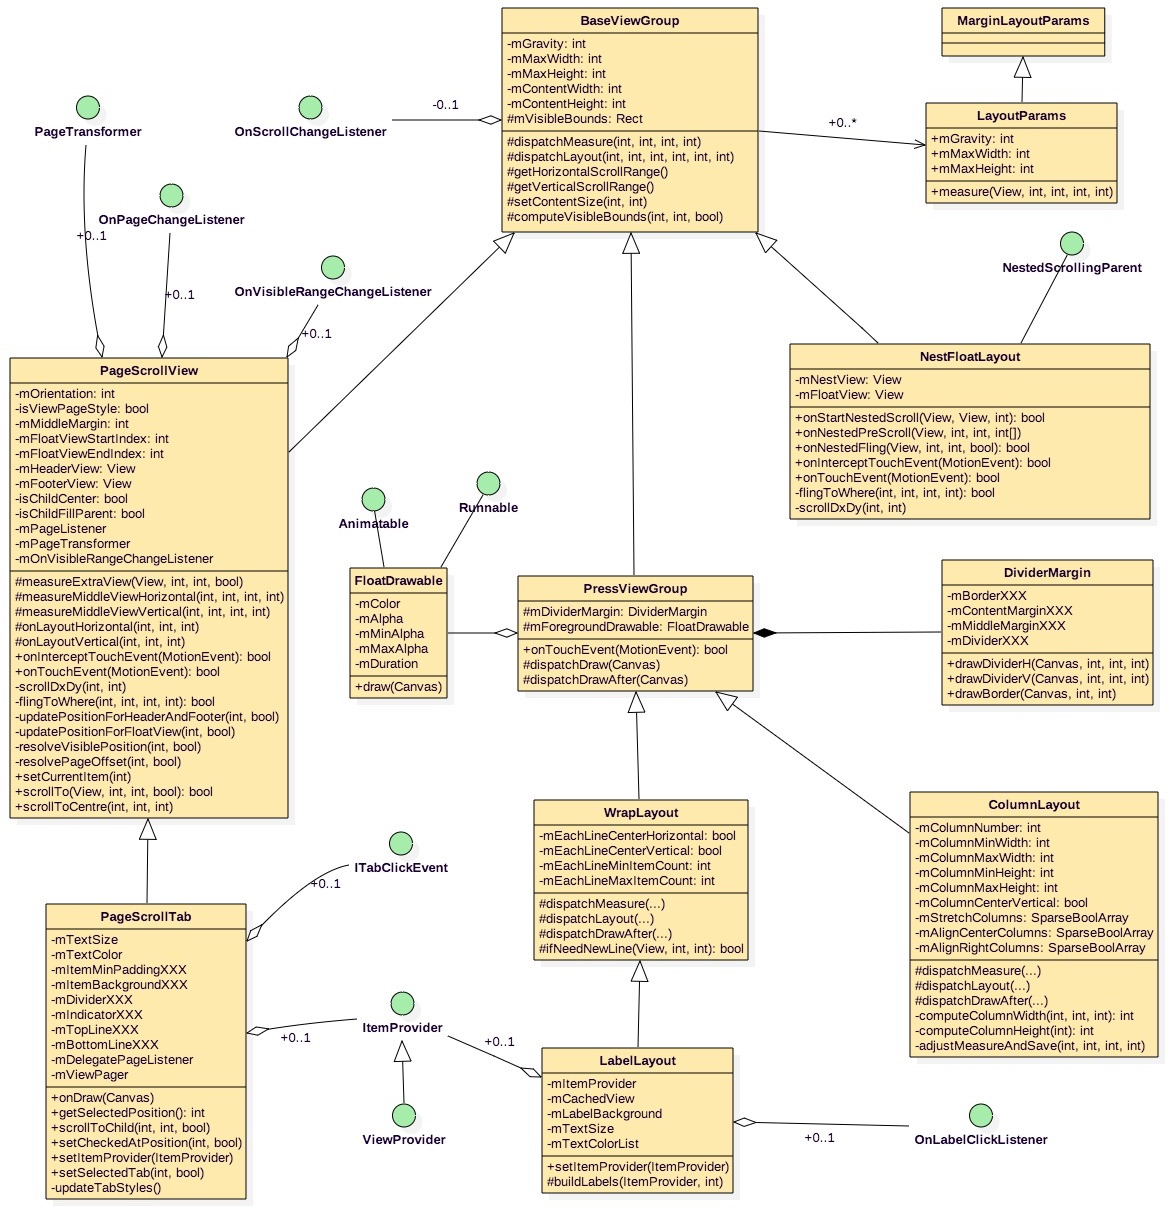
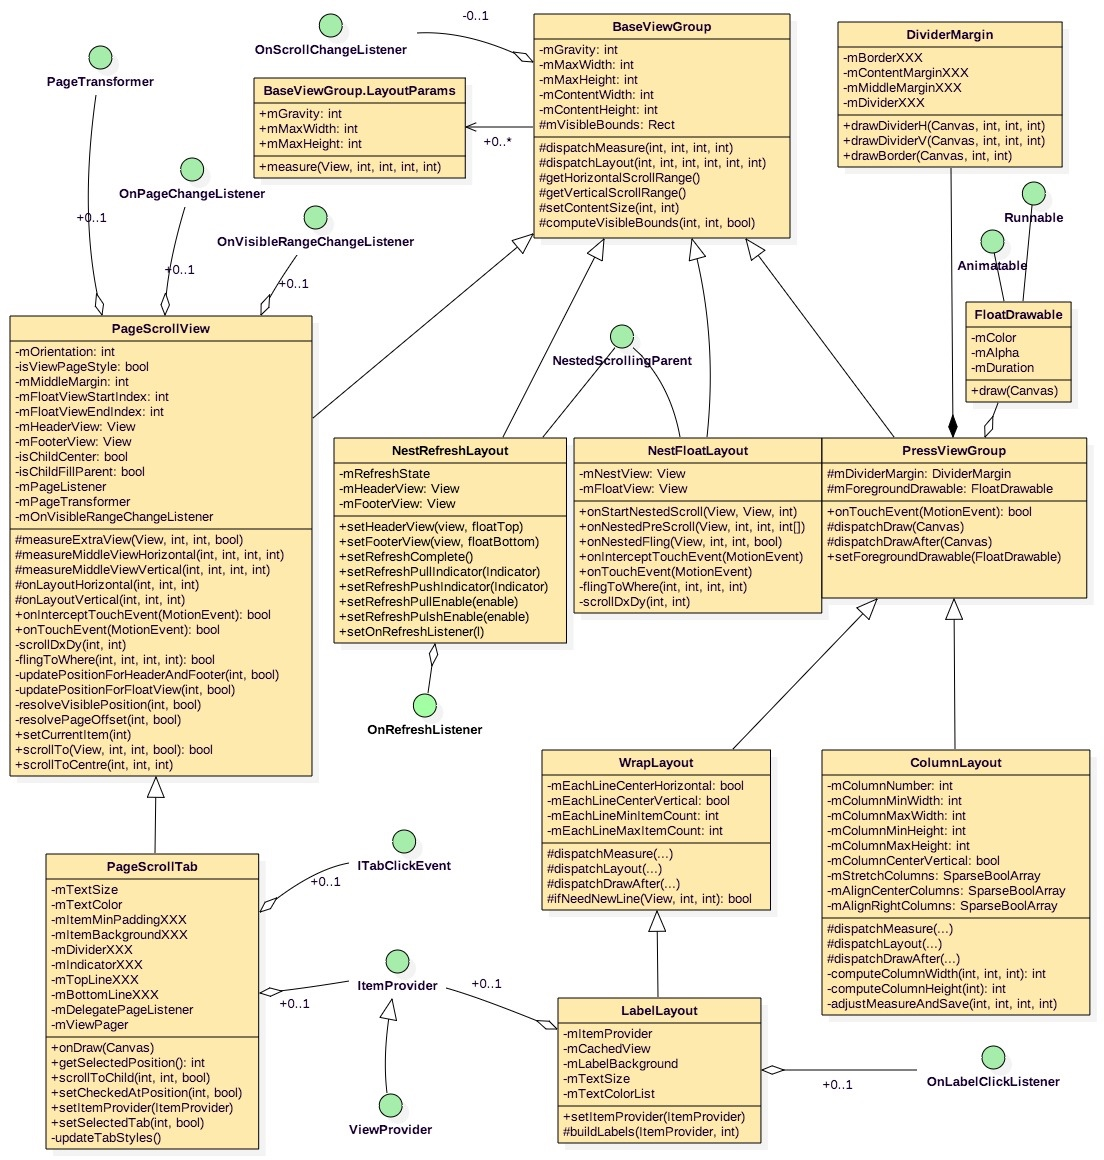
更新readme

diff --git a/README.md b/README.md
@@ -1,72 +1,58 @@
 # WidgetLayout 介绍
-**WidgetLayout**是一组继承于`ViewGroup`的自定义容器集合， 目前实现了以下实用容器:
+**WidgetLayout**是一组继承于`ViewGroup`的自定义容器集合，大部分支持描边和内容分割线，目前实现了以下实用容器:
 
-1. `NestRefreshLayout` 一个精简强大的支持任意类型 View 的下拉刷新 上拉加载更多，同时可添加头部和尾部 且可设置 `Float`模式。
-2. `WrapLayout` 支持水平布局，并自适应换行，可限定每行最少和最多Item 数，行内容可水平和垂直居中。
-3. `LabelLayout` 继承自 `WrapLayout`,以`ItemProvider` 方式提供内容，有简单的回收复用机制，有Item 点击监听。
-4. `ColumnLayout` 以等分列方式布局，每列可设置内容居左，中，右，及铺满，可设置最小最大列宽高限定。
-5. `NestFloatLayout` 支持列表的嵌套滑动和指定子 `View` 悬停，像`NestScrollView` 。
-6. `PageScrollView` 可水平垂直方向布局和滑动吸顶等，无需嵌套; 支持`ScrollView`和`ViewPager`的交互和接口。
-7. `PageScrollTab` 在`PageScrollView`上扩展支持`Tab`场景交互和各种UI 定制。
+1. `ColumnLayout` 以等分列方式布局，每列可设置内容居左，中，右，及铺满，可设置最小最大列宽高限定。
+2. `NestRefreshLayout` 一个精简强大的支持任意类型`View`的下拉刷新，上拉加载更多,可添加头部和尾部且可设置悬停模式。
+3. `NestFloatLayout` 支持列表的嵌套滑动和指定子 `View` 悬停顶部，类似`NestScrollView` 。
+4. `PageScrollView` 可水平垂直方向布局和滑动吸顶等，无需嵌套，支持`ScrollView`和`ViewPager`的交互和接口。
+5. `PageScrollTab` 在`PageScrollView`上扩展支持`Tab`场景交互和各种UI定制。
+6. `WrapLayout` 支持水平布局，并自适应换行，可限定每行最少和最多Item数，行内容可水平和垂直居中。
+7. `LabelLayout` 继承自 `WrapLayout`,以`ItemProvider` 方式提供内容，有简单的回收复用机制，有Item点击监听。
 
-
-
-# 实现背景
-
-* 开发中为了实现特定的组合布局，我们会用功能鲜明的4大常用布局去嵌套实现，增加了严重OverDraw的机率；
-
-* `RelativeLayout` 布局功能强大但是`measure`过程复杂(每次执行onMeasure 所有直接子 View 会有两次measure)
-
-* 面对复杂交互可能需要写一堆与业务无关的晦涩逻辑，工作量比开发业务繁重，比如滑动控件的悬停或联动；
-
-* 在有分割线或是边界线的视觉需求时，很多人常用`View`来实现，即消耗了内存，又影响了测绘时间。
-
-* 常用容器控件还没有对自身做最大宽高限定的，经常见到的等分布局，常用多层支持不同方向`LinearLayout`来实现。
-
-* 希望容器有一个共通的基类，便于日后统一处理一些事情，比如监控性能打点等。
-
-针对以上问题结合常用的使用场景编写了以上的几种容器组件,类结构图如下：
+以下是各容器实现的结构类图， **[直接看示例请点击](#demo演示效果)[`演示效果`](#demo演示效果)**
 
 ![WrapLayout&LabelLayout][classlayer]
 
+# 实现背景及使用场景
 
+**1. 现有系统容器下开发界面经常遇到以下尴尬问题:**
+   * 实现特定的组合布局，我们会用功能鲜明的4大常用布局去嵌套实现，**增加了严重OverDraw的机率**；
+   * `RelativeLayout` 布局功能强大但是`measure`过程复杂(每次执行`onMeasure` **所有直接子`View`会有两次measure**)
+   * 为实现复杂交互工作量比开发业务繁重，比如**滑动控件的悬停或联动**；
+   * **分割线或是边界线**很多人常用`View`来实现，即耗内存，又影响测绘时间。
+   * **等分布局**，使用多层不同方向`LinearLayout`来实现，嵌套太多。
+   * 常用容器控件还没有对自身做最大宽高限定的，也无对子 View 做最大宽高限定。
+   
+**2. 适合的使用场景举例按需要选择，可减少布局嵌套和复杂的交互代码。**
+   + **容器自身或对直接子`View`的最大宽高限定**，容器内容和直接子`View`的`gravity`灵活支持。
+   + 容器需要**描边**或子`View`间画**分割线**的，或有各种间距要求，或按下自带激变层效果可使用继承于`PressViewGroup`的容器，如`WrapLayout,LabelLayout,ColumnLayout`。
+   + 常见的**表格**布局或**动态等分**布局可用`ColumnLayout`，支持每列的`Align`方式（左中右上下）和全铺满。
+   + 标签布局或需自适应换行可选用`WrapLayout`和`LabelLayout`，可设置行最少最多的`View` 个数和行居中，
+   + 列表需要**嵌套滑动**和悬停吸顶可用`NestFloatLayout`，类似NestScrollView 。
+   + `PageScrollView` 可取代`ScrollView&HorizontalScrollView` 少嵌套，可设置任意子`View`滑动悬停在开始和结束位置，可不限定子`View`大小像 `ViewPager` 一样选中居中和滑动的交互。
+   + `WrapLayout,ColumnLayout`是完全可替代支持不同方向的`LinearLayout`并能提供更多的布局约束，和**背景，描边，分割等额外装饰**。
+   + 以上容器都有一个共通的基类，便于统一监控性能打点如`layout`,`measure`过程等。 
 
-# 适合的使用场景举例 按需要选择，减少布局嵌套和额外复杂的交互代码。
+# Demo演示效果
 
- + 任何需要对容器自身或对直接子 View 的最大宽高限定以及支持 `gravity的不同Align`布局，都可适当选择以下容器。
-
- + 任何需要对容器描边和子`View`间画分割线的，需要像ios 按下自带蒙层的效果可使用继承于`PressViewGroup`的容器，像`WrapLayout,LabelLayout,ColumnLayout`。
-
- + `WrapLayout`和`LabelLayout` 适用于以行方式布局子控件，并能自适应大小自动换行，方便设置行最少最多的`View` 个数和行居中，
-
- + `ColumnLayout`是特别适合列布局，等分布局的使用场景，方便调整每列的`Align`方式（左中右）和全铺满，或按child自已的`gravity`在所在列的格子里来布局，
-
- + `NestFloatLayout` 适合嵌套滑动的列表，类似NestScrollView 。
-
- + `PageScrollView` 可替代`ScrollView&HorizontalScrollView` 少嵌套，可设置任意子`View`滑动悬停在开始和结束位置，可不限定子`View`大小像 `ViewPager` 一样选中居中和滑动的交互。
-
- + `WrapLayout,ColumnLayout`是完全可替代支持不同方向的`LinearLayout`并能提供更多的布局约束，和背景，描边，分割等额外装饰。
-
-
-
-# Demo 示例效果
-
-Demo 入口 和 `NestFloatLayout`的演示效果。
-
-![NestFloatLayout][entry]
-![NestFloatLayout][nestlist]
-
-<br/>
 `WrapLayout`和`LabelLayout` `ColumnLayout`的演示效果。的演示效果。
 
 ![WrapLayout&LabelLayout][wraplabel]
 ![ColumnLayout][column]
 
 <br/>
+
 `PageScrollView`和`PageScrollTab`的使用示例。
 
 ![无需嵌套LinearLayout > scrollview.gif][scrollview]
 ![ViewPager 模式 > viewpager.gif][viewpager]
+
+<br/>
+
+Demo 入口 和 `NestFloatLayout`的演示效果。
+
+![NestFloatLayout][entry]
+![NestFloatLayout][nestlist]
 
 
 # 如何使用：XML 属性和 API 简介
@@ -165,73 +151,7 @@ Demo 入口 和 `NestFloatLayout`的演示效果。
 
 ### 具体容器组件的属性和使用介绍
 
-1.`WrapLayout` xml 属性支持属性如下：java 都有对应的set 和get 方法就不给示例了。
-
-``` xml
-  <!--每行内容水平居中-->
-  <attr name="lineCenterHorizontal" format="boolean"/>
-  <!--每行内容垂直居中-->
-  <attr name="lineCenterVertical" format="boolean"/>
-
-  <!--每一行最少的Item 个数-->
-  <attr name="lineMinItemCount" format="integer"/>
-  <!--每一行最多的Item 个数-->
-  <attr name="lineMaxItemCount" format="integer"/>
-```
-
-2.`LabelLayout` 继承`WrapLayout`有其所有功能接口。
-
-  不同是支持 `android:textSize,android:textColor` 在xml 中设置Label 的字号和字色。同样可用java 代码设置字号字色。
-  使用可通过`ItemProvider` 接口来初始化 `Label`,本工程中的示例初始化如下。
-
-  ``` java
-  final String[] mLabels = new String[]{
-          "A", "B", "C", "D", "E", "F", "G", "H"
-  };
-  labelLayout.setItemProvider(new ItemProvider.ViewProvider() {
-      @Override
-      public int getViewType(int position) {
-          return 0;
-      }
-
-      @Override
-      public View getView(int position, View convertView, ViewGroup parent) {
-          return buildView(getTitle(position),true);
-      }
-
-      @Override
-      public CharSequence getTitle(int position) {
-          return mLabels[position];
-      }
-
-      @Override
-      public Object getItem(int position) {
-          return mLabels[position];
-      }
-
-      @Override
-      public int getCount() {
-          return mLabels == null ? 0 : mLabels.length;
-      }
-  });
-  final LabelLayout.OnLabelClickListener mLabelClicker = new LabelLayout.OnLabelClickListener() {
-      @Override
-      public void onLabelClick(LabelLayout parent, View labelView) {
-          Object tag = labelView.getTag();
-          CharSequence text = tag == null ? null : String.valueOf(tag);
-          if (text == null && labelView instanceof TextView) {
-              text = ((TextView) labelView).getText();
-          }
-          if (text != null) {
-              Toast.makeText(getActivity(), text, Toast.LENGTH_SHORT).show();
-          }
-      }
-  };
-  mLabelLayout.setOnLabelClickListener(mLabelClicker);
-  ```
-
-
-3.`ColumnLayout` xml 属性支持属性如下：java 都有对应的set 和get 方法就不给示例了。
+1.`ColumnLayout` xml 属性支持属性如下：java 都有对应的set和get方法就不给示例了。
 
 ``` xml
   <!--列个数-->
@@ -262,7 +182,35 @@ Demo 入口 和 `NestFloatLayout`的演示效果。
   <attr name="columnDividerPaddingEnd" format="dimension"/>
 ```
 
-4.`NestFloatLayou` xml 属性支持属性和 java 代码如下：
+2.`NestRefreshLayout` 在xml 中可像`ScrollView`一样用，只支持一个内容。可动态设置头部和尾部。
+
+``` java
+   //可选，设置头部headerView，true 表示悬停在内容上。
+   refreshLayout.setHeaderView(headerView, true);
+   
+   //可选，设置尾部footerView，false 表示不需要悬停在内容上。
+   refreshLayout.setFooterView(footerView, false);
+   
+   //可选，设置覆盖内容的蒙层 View。
+   refreshLayout.setMaskView(maskView, true);
+   
+   //设置下拉刷新的指示器。
+   refreshLayout.setRefreshPullIndicator(new DefaultRefreshIndicator(getActivity()));
+   //设置上拉加载更多的指示器。
+   refreshLayout.setRefreshPushIndicator(new DefaultRefreshIndicator(getActivity()));
+   
+   设置下拉或上推的状态和刷新动作的监听
+   mRefreshLayout.setOnRefreshListener(new NestRefreshLayout.OnRefreshListener() {
+      @Override
+      public void onRefreshStateChanged(NestRefreshLayout parent, int state, int preState, int moveAbsDistance) {
+      }
+      @Override
+      public void onRefresh(NestRefreshLayout parent, boolean refresh) {
+      }
+   });
+```
+
+3.`NestFloatLayou` xml 属性支持属性和 java 代码如下：
 
 ``` xml
  <!--实现了嵌套滑动NestScrollingChild 接口的滑动的 View 所在的直接子 View 索引-->
@@ -279,8 +227,7 @@ Demo 入口 和 `NestFloatLayout`的演示效果。
   mLastFloatLayout.setFloatViewIndex(viewIndex);
 ```
 
-
-5.`PageScrollView,PageScrollTab` 使用.
+4.`PageScrollView,PageScrollTab` 使用.
 
 a. 支持的xml 属性，对应都有java 相应的set 和 get;
 
@@ -412,6 +359,73 @@ java 额外的接口：
 
 
 
+
+5.`WrapLayout` xml 属性支持属性如下：java 都有对应的set 和get 方法就不给示例了。
+
+``` xml
+  <!--每行内容水平居中-->
+  <attr name="lineCenterHorizontal" format="boolean"/>
+  <!--每行内容垂直居中-->
+  <attr name="lineCenterVertical" format="boolean"/>
+
+  <!--每一行最少的Item 个数-->
+  <attr name="lineMinItemCount" format="integer"/>
+  <!--每一行最多的Item 个数-->
+  <attr name="lineMaxItemCount" format="integer"/>
+```
+
+6.`LabelLayout` 继承`WrapLayout`有其所有功能接口。
+
+  不同是支持 `android:textSize,android:textColor` 在xml 中设置Label 的字号和字色。同样可用java 代码设置字号字色。
+  使用可通过`ItemProvider` 接口来初始化 `Label`,本工程中的示例初始化如下。
+
+  ``` java
+  final String[] mLabels = new String[]{
+          "A", "B", "C", "D", "E", "F", "G", "H"
+  };
+  labelLayout.setItemProvider(new ItemProvider.ViewProvider() {
+      @Override
+      public int getViewType(int position) {
+          return 0;
+      }
+
+      @Override
+      public View getView(int position, View convertView, ViewGroup parent) {
+          return buildView(getTitle(position),true);
+      }
+
+      @Override
+      public CharSequence getTitle(int position) {
+          return mLabels[position];
+      }
+
+      @Override
+      public Object getItem(int position) {
+          return mLabels[position];
+      }
+
+      @Override
+      public int getCount() {
+          return mLabels == null ? 0 : mLabels.length;
+      }
+  });
+  final LabelLayout.OnLabelClickListener mLabelClicker = new LabelLayout.OnLabelClickListener() {
+      @Override
+      public void onLabelClick(LabelLayout parent, View labelView) {
+          Object tag = labelView.getTag();
+          CharSequence text = tag == null ? null : String.valueOf(tag);
+          if (text == null && labelView instanceof TextView) {
+              text = ((TextView) labelView).getText();
+          }
+          if (text != null) {
+              Toast.makeText(getActivity(), text, Toast.LENGTH_SHORT).show();
+          }
+      }
+  };
+  mLabelLayout.setOnLabelClickListener(mLabelClicker);
+  ```
+
+# 最后感谢大家关注和多提建议或是**issue**，如果很感兴趣请 star 和 follower .
 
 [classlayer]:image/classlayer.jpg "NestFloatLayout 的示例"
 [scrollview]:image/example_scrollview.gif "ScrollView type but no need to nest a single ViewGroup,just use as a LinearLayout"
